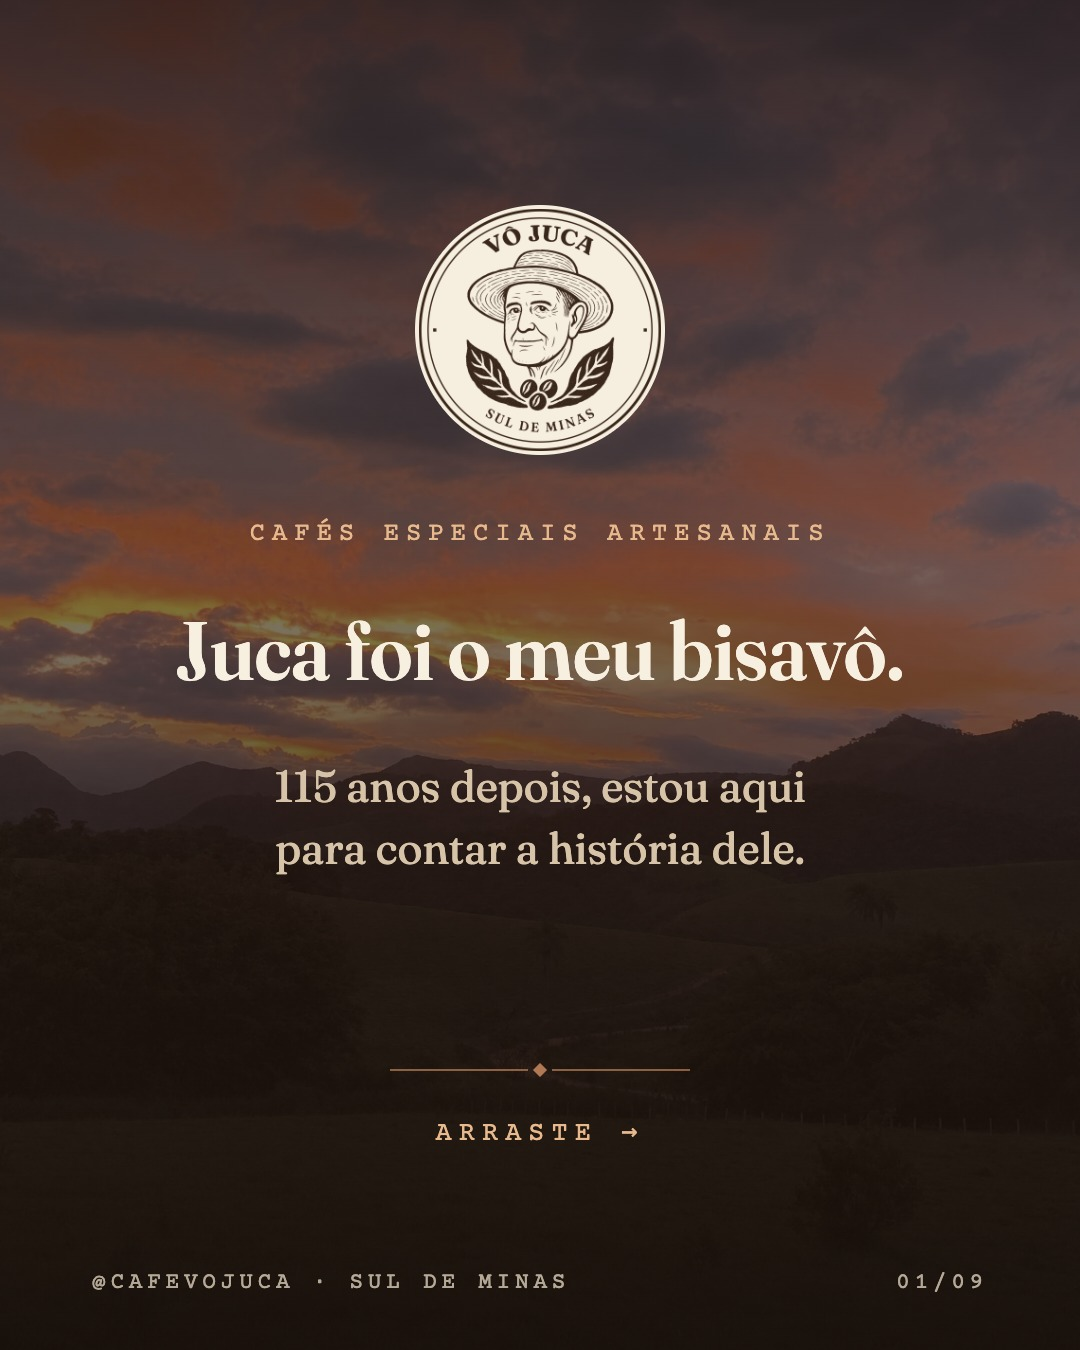
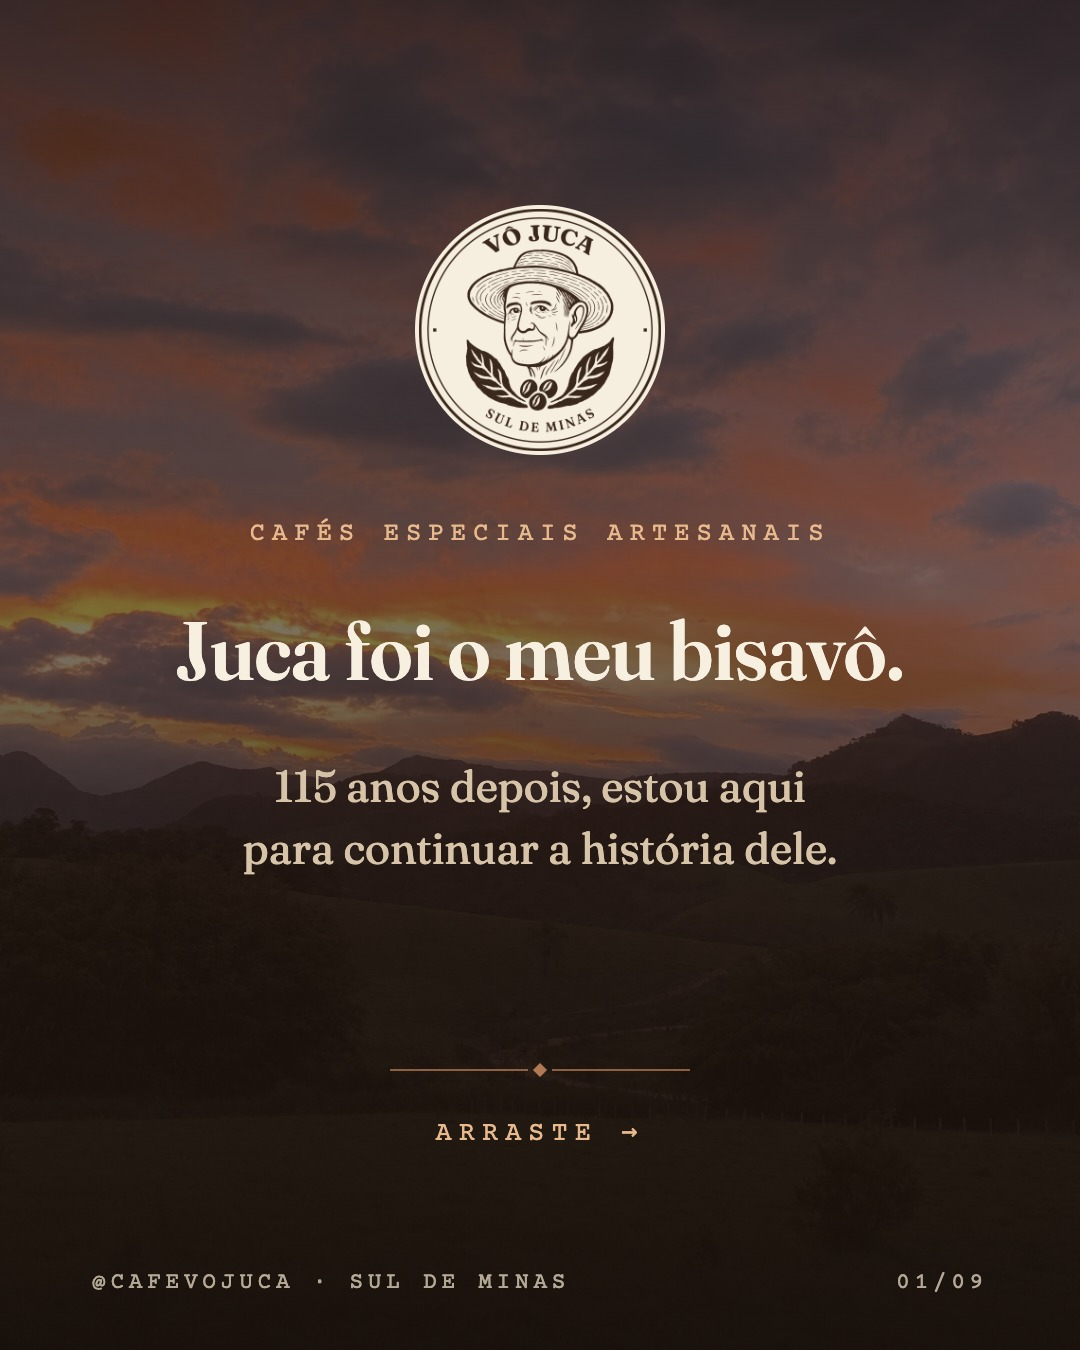
copy: "para continuar a historia dele" na capa e no carrossel
Contar deixava a marca no passado: a capa virava memorial e nao prometia
cafe nenhum. Continuar troca a curadoria por movimento sem prometer
demais -- o que o Joao continua e' a historia, a marca e a venda; a
lavoura de hoje foi replantada pelo tio Nando e quem toca e' o
Fernandinho.

O primeiro slide do carrossel trazia a mesma frase e foi refeito.

Changed region(s): [[0.2139, 0.6222, 0.7639, 0.6533]]

diff --git a/midia/slides-fonte.html b/midia/slides-fonte.html
@@ -119,7 +119,7 @@ slides.push(async (x, im) => {
   etiqueta(x, "Cafés especiais artesanais", { xPos: W / 2, y: 540, cor: DESTAQUE, tam: 26, align: "center" });
   let y = escreve(x, "Juca foi o meu bisavô.", {
     xPos: W / 2, y: 680, larg: W - M * 2, fonte: `600 82px ${SERIF}`, cor: CREME, lh: 92, align: "center" });
-  escreve(x, "115 anos depois, estou aqui\npara contar a história dele.", {
+  escreve(x, "115 anos depois, estou aqui\npara continuar a história dele.", {
     xPos: W / 2, y: y + 30, larg: W - M * 2, fonte: `400 44px ${SERIF}`, cor: "#d6c3a8", lh: 62, align: "center" });
   fio(x, W / 2, 1070, 300, "rgba(201,138,94,0.85)");
   etiqueta(x, "Arraste →", { xPos: W / 2, y: 1140, cor: DESTAQUE, tam: 27, align: "center" });

diff --git a/src/components/Capa.tsx b/src/components/Capa.tsx
@@ -80,7 +80,7 @@ export default function Capa() {
               na frase anterior e a segunda começava em "anos". */}
           <span className="italic" style={{ color: "#e8b98d", fontWeight: 400 }}>
             {MARCA.anosEntreOsJucas}
-            {"\u00A0anos depois, estou aqui para contar a história dele."}
+            {"\u00A0anos depois, estou aqui para continuar a história dele."}
           </span>
         </h1>
 
